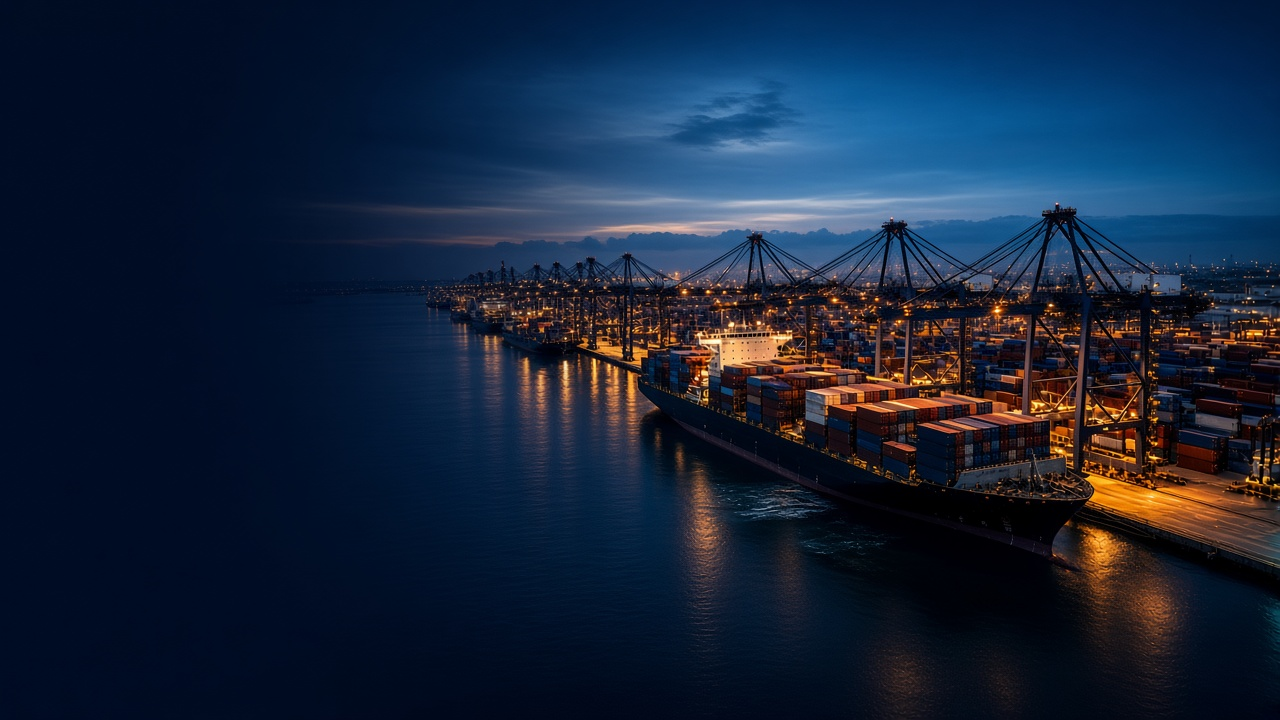
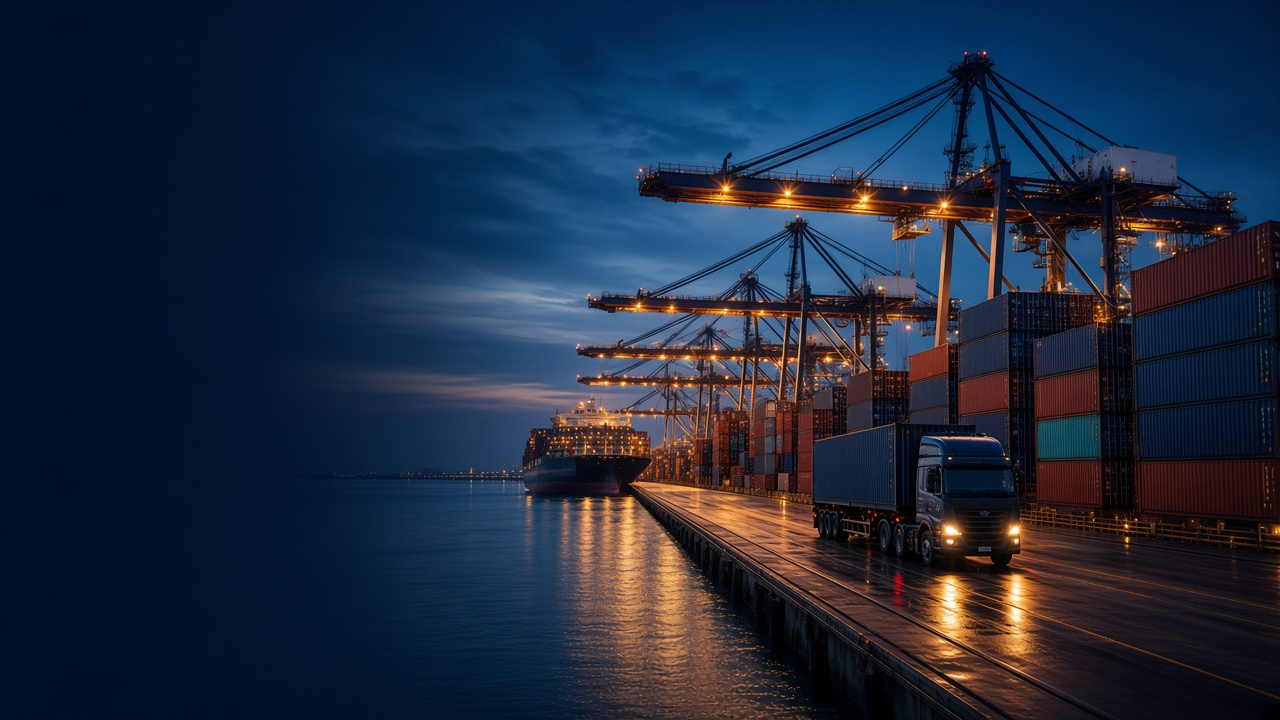
Release 1.4.2 with an updated freight hero photo.

diff --git a/contact.html b/contact.html
@@ -4,7 +4,7 @@
   <meta charset="utf-8">
   <meta name="viewport" content="width=device-width, initial-scale=1">
   <title>Northgo</title>
-  <link rel="stylesheet" href="css/site.css?v=1.4.0">
+  <link rel="stylesheet" href="css/site.css?v=1.4.2">
   <link rel="stylesheet" href="https://unpkg.com/leaflet@1.9.4/dist/leaflet.css">
 </head>
 <body data-page="contact" data-title-key="contactTitle">
@@ -84,7 +84,7 @@
     </div>
   </footer>
   <script src="https://unpkg.com/leaflet@1.9.4/dist/leaflet.js"></script>
-  <script src="js/site.js?v=1.4.0"></script>
-  <script src="js/contact.js?v=1.4.0"></script>
+  <script src="js/site.js?v=1.4.2"></script>
+  <script src="js/contact.js?v=1.4.2"></script>
 </body>
 </html>

diff --git a/admin/copy.html b/admin/copy.html
@@ -5,7 +5,7 @@
   <meta name="viewport" content="width=device-width, initial-scale=1">
   <meta name="robots" content="noindex,nofollow">
   <title>Northgo Admin · Form copy</title>
-  <link rel="stylesheet" href="admin.css?v=1.4.1">
+  <link rel="stylesheet" href="admin.css?v=1.4.2">
   <style>.visually-hidden { position: absolute; width: 1px; height: 1px; padding: 0; margin: -1px; overflow: hidden; clip: rect(0,0,0,0); border: 0; }</style>
 </head>
 <body data-admin="copy">
@@ -38,6 +38,6 @@
       </div>
     </main>
   </div>
-  <script src="admin.js?v=1.4.1"></script>
+  <script src="admin.js?v=1.4.2"></script>
 </body>
 </html>

diff --git a/warehouse.html b/warehouse.html
@@ -4,7 +4,7 @@
   <meta charset="utf-8">
   <meta name="viewport" content="width=device-width, initial-scale=1">
   <title>Northgo</title>
-  <link rel="stylesheet" href="css/site.css?v=1.4.0">
+  <link rel="stylesheet" href="css/site.css?v=1.4.2">
 </head>
 <body data-page="services" data-title-key="warehouseTitle">
   <img class="site-bg" src="img/northgo-warehouse.jpg" width="1200" height="900" alt="" data-i18n-alt="altWarehouse">
@@ -42,6 +42,6 @@
       <a href="sitemap.html">Sitemap</a>
     </div>
   </footer>
-  <script src="js/site.js?v=1.4.0"></script>
+  <script src="js/site.js?v=1.4.2"></script>
 </body>
 </html>

diff --git a/project.html b/project.html
@@ -4,7 +4,7 @@
   <meta charset="utf-8">
   <meta name="viewport" content="width=device-width, initial-scale=1">
   <title>Northgo</title>
-  <link rel="stylesheet" href="css/site.css?v=1.4.0">
+  <link rel="stylesheet" href="css/site.css?v=1.4.2">
 </head>
 <body data-page="services" data-title-key="projectTitle">
   <img class="site-bg" src="img/northgo-project.jpg" width="1200" height="900" alt="" data-i18n-alt="altProject">
@@ -42,6 +42,6 @@
       <a href="sitemap.html">Sitemap</a>
     </div>
   </footer>
-  <script src="js/site.js?v=1.4.0"></script>
+  <script src="js/site.js?v=1.4.2"></script>
 </body>
 </html>

diff --git a/agency.html b/agency.html
@@ -4,7 +4,7 @@
   <meta charset="utf-8">
   <meta name="viewport" content="width=device-width, initial-scale=1">
   <title>Northgo</title>
-  <link rel="stylesheet" href="css/site.css?v=1.4.0">
+  <link rel="stylesheet" href="css/site.css?v=1.4.2">
 </head>
 <body data-page="services" data-title-key="agencyTitle">
   <img class="site-bg" src="img/northgo-agency.jpg" width="1200" height="900" alt="" data-i18n-alt="altAgency">
@@ -42,6 +42,6 @@
       <a href="sitemap.html">Sitemap</a>
     </div>
   </footer>
-  <script src="js/site.js?v=1.4.0"></script>
+  <script src="js/site.js?v=1.4.2"></script>
 </body>
 </html>

diff --git a/services.html b/services.html
@@ -4,7 +4,7 @@
   <meta charset="utf-8">
   <meta name="viewport" content="width=device-width, initial-scale=1">
   <title>Northgo</title>
-  <link rel="stylesheet" href="css/site.css?v=1.4.0">
+  <link rel="stylesheet" href="css/site.css?v=1.4.2">
 </head>
 <body data-page="services" data-title-key="servicesTitle">
   <img class="site-bg" src="img/northgo-hero.jpg" width="1280" height="720" alt="" data-i18n-alt="altHero">
@@ -49,6 +49,6 @@
       <a href="sitemap.html">Sitemap</a>
     </div>
   </footer>
-  <script src="js/site.js?v=1.4.0"></script>
+  <script src="js/site.js?v=1.4.2"></script>
 </body>
 </html>

diff --git a/about.html b/about.html
@@ -4,7 +4,7 @@
   <meta charset="utf-8">
   <meta name="viewport" content="width=device-width, initial-scale=1">
   <title>Northgo</title>
-  <link rel="stylesheet" href="css/site.css?v=1.4.0">
+  <link rel="stylesheet" href="css/site.css?v=1.4.2">
 </head>
 <body data-page="about" data-title-key="aboutTitle">
   <img class="site-bg" src="img/northgo-about.jpg" width="1200" height="675" alt="" data-i18n-alt="altAbout">
@@ -50,6 +50,6 @@
       <a href="sitemap.html">Sitemap</a>
     </div>
   </footer>
-  <script src="js/site.js?v=1.4.0"></script>
+  <script src="js/site.js?v=1.4.2"></script>
 </body>
 </html>

diff --git a/index.html b/index.html
@@ -4,7 +4,7 @@
   <meta charset="utf-8">
   <meta name="viewport" content="width=device-width, initial-scale=1">
   <title>Northgo</title>
-  <link rel="stylesheet" href="css/site.css?v=1.4.0">
+  <link rel="stylesheet" href="css/site.css?v=1.4.2">
 </head>
 <body data-page="home" data-title-key="homeTitle">
   <img class="site-bg" src="img/northgo-hero.jpg" width="1280" height="720" alt="" data-i18n-alt="altHero">
@@ -54,6 +54,6 @@
       <a href="sitemap.html">Sitemap</a>
     </div>
   </footer>
-  <script src="js/site.js?v=1.4.0"></script>
+  <script src="js/site.js?v=1.4.2"></script>
 </body>
 </html>

diff --git a/freight.html b/freight.html
@@ -4,7 +4,7 @@
   <meta charset="utf-8">
   <meta name="viewport" content="width=device-width, initial-scale=1">
   <title>Northgo</title>
-  <link rel="stylesheet" href="css/site.css?v=1.4.0">
+  <link rel="stylesheet" href="css/site.css?v=1.4.2">
 </head>
 <body data-page="services" data-title-key="freightTitle">
   <img class="site-bg" src="img/northgo-freight-hero.jpg" width="1280" height="720" alt="">
@@ -63,6 +63,6 @@
       <a href="sitemap.html">Sitemap</a>
     </div>
   </footer>
-  <script src="js/site.js?v=1.4.0"></script>
+  <script src="js/site.js?v=1.4.2"></script>
 </body>
 </html>

diff --git a/admin/index.html b/admin/index.html
@@ -5,7 +5,7 @@
   <meta name="viewport" content="width=device-width, initial-scale=1">
   <meta name="robots" content="noindex,nofollow">
   <title>Northgo Admin · 客戶詢問</title>
-  <link rel="stylesheet" href="admin.css?v=1.4.1">
+  <link rel="stylesheet" href="admin.css?v=1.4.2">
 </head>
 <body data-admin="inbox">
   <div class="shell">
@@ -54,6 +54,6 @@
       </div>
     </main>
   </div>
-  <script src="admin.js?v=1.4.1"></script>
+  <script src="admin.js?v=1.4.2"></script>
 </body>
 </html>

diff --git a/admin/login.html b/admin/login.html
@@ -5,7 +5,7 @@
   <meta name="viewport" content="width=device-width, initial-scale=1">
   <meta name="robots" content="noindex,nofollow">
   <title>Northgo Admin · Login</title>
-  <link rel="stylesheet" href="admin.css?v=1.4.1">
+  <link rel="stylesheet" href="admin.css?v=1.4.2">
 </head>
 <body data-admin="login">
   <div class="login-wrap">
@@ -21,6 +21,6 @@
       </form>
     </div>
   </div>
-  <script src="admin.js?v=1.4.1"></script>
+  <script src="admin.js?v=1.4.2"></script>
 </body>
 </html>

diff --git a/js/site.js b/js/site.js
@@ -322,7 +322,7 @@
           renderer: "svg",
           loop: false,
           autoplay: !reduce,
-          path: "img/ng-logo.json?v=1.4.0"
+          path: "img/ng-logo.json?v=1.4.2"
         });
         if (reduce) {
           anim.addEventListener("DOMLoaded", function () {
